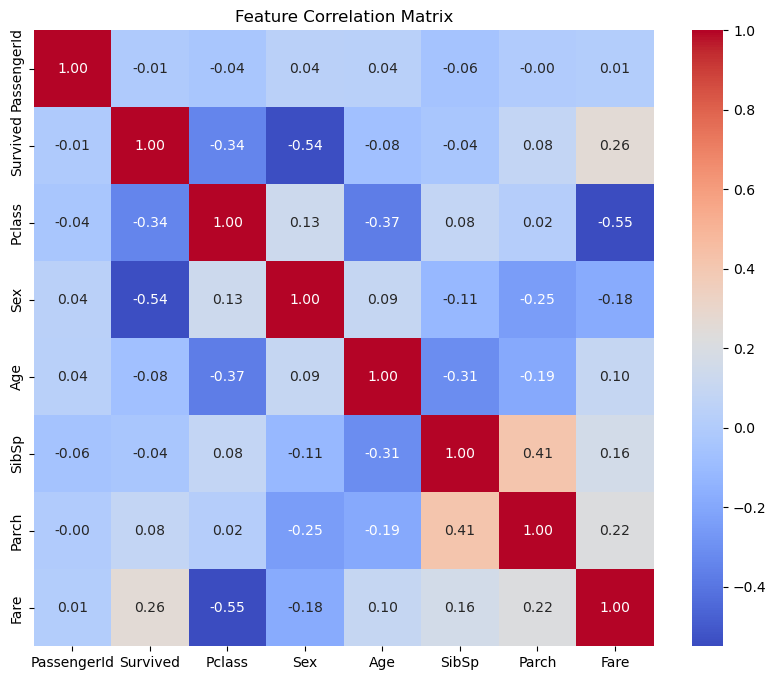
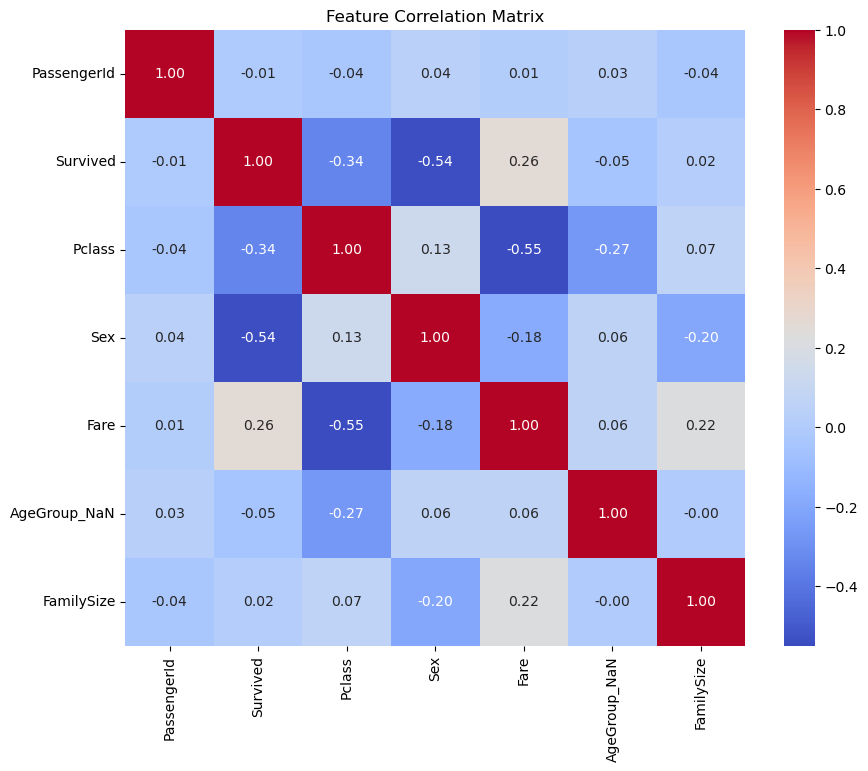
docs : record update

diff --git a/한결/7.11/record.md b/한결/7.11/record.md
@@ -50,5 +50,6 @@ def replace_titles(x):
 - Staking : RandomForest * 5 => 최고점(7.11 제출)
 
 ## Think?~
-![alt text](image.png) train.csv에 대해서 데이터 상관관계에서 조금 특이한 점 존재 
-- Pclass와 Fare의 상관관계는 0.5로 높은 편에 속하나,, Fare와 Survived의 관계는 Pclass와 달리 크게 상관하지 않음;
+![상관관계](image.png)
+
+- 성별에 대해서 하나의 feature로 바라보는 것 보다, 범주형 데이터에 성별 방향을 곱해서 새로운 feature를 고려해 보는 것은?!
